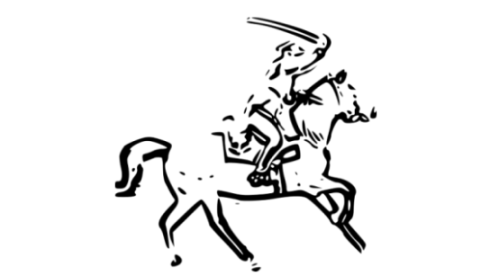
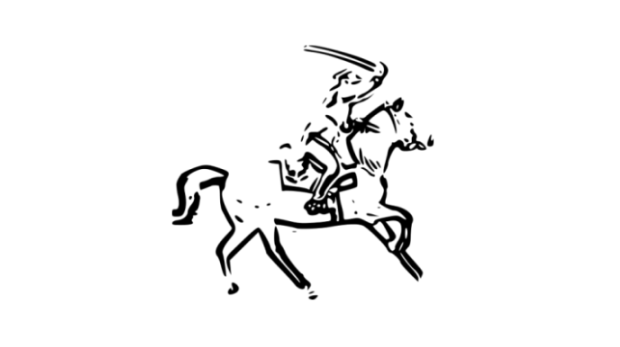
editted

Changed region(s): [[0.21, 0.0571, 0.78, 0.9714]]

diff --git a/march/index.html b/march/index.html
@@ -7,13 +7,13 @@
     <link href="css/bootstrap.min.css" rel="stylesheet" />
     <link href="css/font-awesome.min.css" rel="stylesheet" />
     <link href="css/app.common.css" rel="stylesheet" />
-    <link href="css/app.index.css?4" rel="stylesheet" />
+    <link href="css/app.index.css?5" rel="stylesheet" />
 </head>
 <body>
     </script>
     <div id="app" class="app" v-cloak>
         <div class="title">
-            <img src="img/common/home.cavalry.png?1" />
+            <img src="img/common/home.cavalry.png?2" />
             <br />
             <div>March of the King</div>
         </div>
@@ -52,6 +52,6 @@
     <script src="js/jquery-3.2.1.min.js"></script>
     <script src="js/vue.js"></script>
     <script src="js/app.library.js"></script>
-    <script src="js/app.index.js?1"></script>
+    <script src="js/app.index.js?2"></script>
 </body>
 </html>

diff --git a/march/css/app.index.css b/march/css/app.index.css
@@ -8,23 +8,19 @@
 }
 
 .app > .title {
-    padding: 50px 10px;
+    padding: 25px 10px 50px 10px;
     text-align: center;
     border-bottom: 1px solid #ddd;
 }
 
-.app > .title > img {
-    width: 300px;
-}
-
 .app > .title > div {
-    font-size: 30px;
+    font-size: 25px;
     font-style: italic;
     display: inline-block;
-    padding: 10px;
+    padding: 10px 15px;
     background: #000;
     color: #fff;
-    margin-top: 50px;
+    margin-top: 25px;
 }
 
 .app > .rooms {
